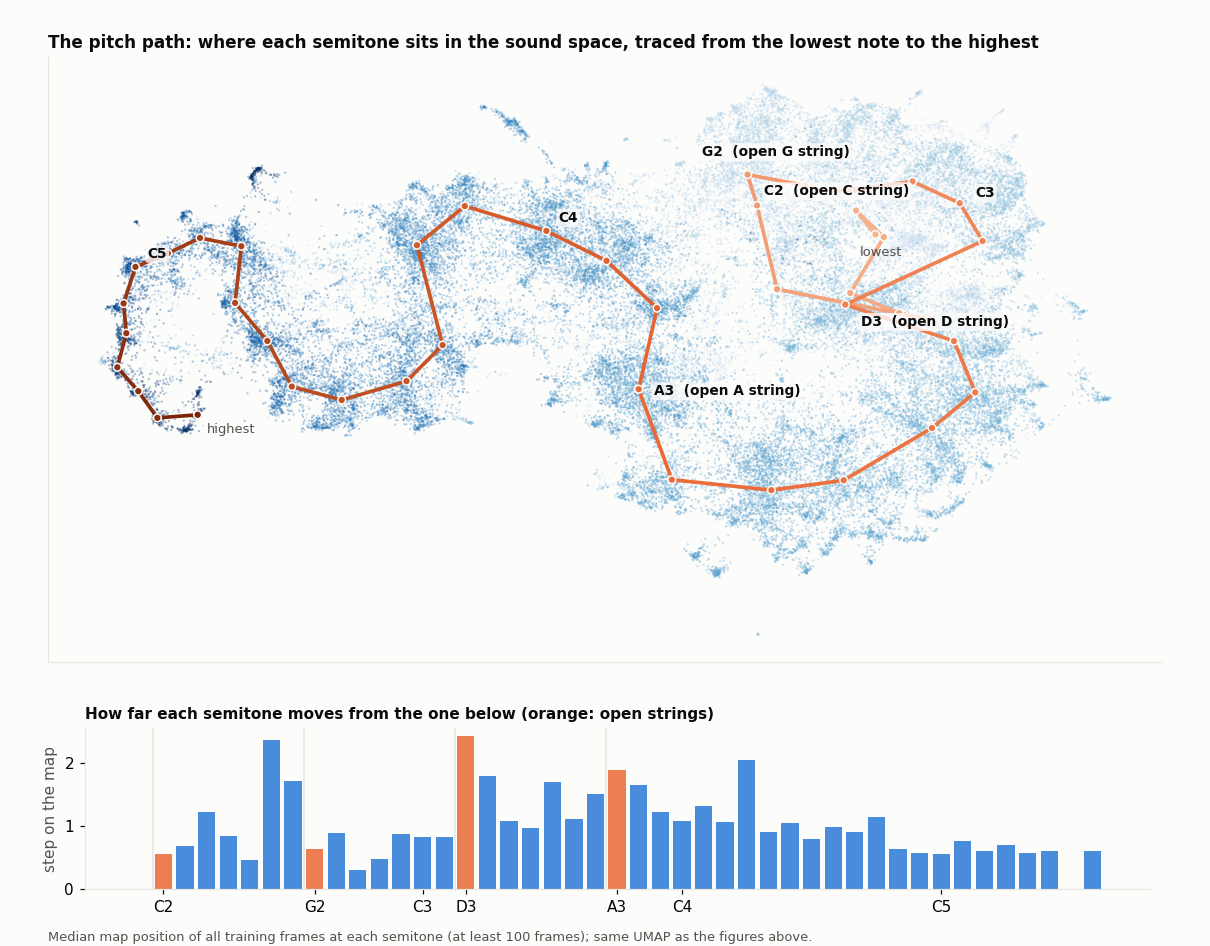
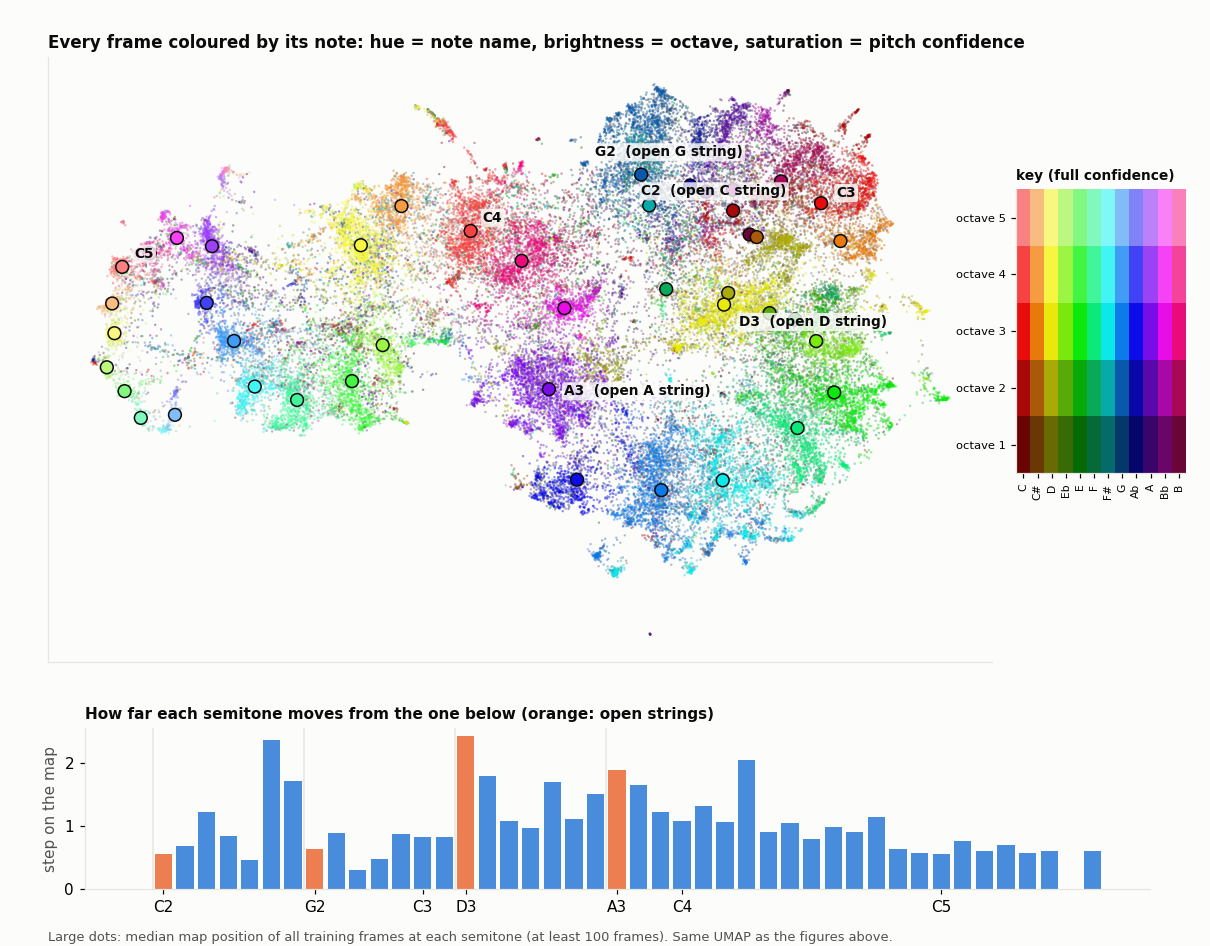
docs: UMAP coloured by note, octave and confidence; black/white semitone map

Changed region(s): [[0.0612, 0.092, 0.9785, 0.6131], [0.0306, 0.0307, 0.8562, 0.0613], [0.0306, 0.981, 0.7339, 1.0]]

diff --git a/colab/cello_gan/make_umap.py b/colab/cello_gan/make_umap.py
@@ -14,12 +14,12 @@ plt.rcParams.update({"figure.facecolor": BG, "axes.facecolor": BG, "axes.edgecol
 def midi_of(c): return np.where(c[:, 1] > 0.5, 69 + 12 * np.log2(np.clip(c[:, 0], 40, 1200) / 440), np.nan)
 
 
-rng = np.random.default_rng(0); Z, P = [], []                              # ~600 voiced frames from each training recording
+rng = np.random.default_rng(0); Z, P, CF = [], [], []                              # ~600 voiced frames from each training recording
 for t in sp["train"]:
     if not os.path.exists(f"{LAT}/{t}.npy"): continue
-    z = np.load(f"{LAT}/{t}.npy").astype(np.float32); m = midi_of(np.load(f"{CTL}/{t}.npy")); n = min(len(z), len(m)); ok = np.flatnonzero(~np.isnan(m[:n]))
-    pick = rng.choice(ok, min(600, len(ok)), replace=False); Z.append(z[pick]); P.append(m[pick])
-Z, P = np.concatenate(Z), np.concatenate(P)
+    z = np.load(f"{LAT}/{t}.npy").astype(np.float32); cc = np.load(f"{CTL}/{t}.npy"); m = midi_of(cc); n = min(len(z), len(m)); ok = np.flatnonzero(~np.isnan(m[:n]))
+    pick = rng.choice(ok, min(600, len(ok)), replace=False); Z.append(z[pick]); P.append(m[pick]); CF.append(cc[pick, 1])
+Z, P, CF = np.concatenate(Z), np.concatenate(P), np.concatenate(CF)          # CF: pitch tracker's voicing confidence (0.5-1 for pitched frames)
 zt = np.load(f"{LAT}/{k}.npy").astype(np.float32)[f0: f0 + int(SEC * 25)]; pt = midi_of(np.load(f"{CTL}/{k}.npy"))[f0: f0 + int(SEC * 25)]
 mu, sd = Z.mean(0), Z.std(0); red = umap.UMAP(n_neighbors=30, min_dist=0.15, random_state=0).fit((Z - mu) / sd)
 xy, xt = red.embedding_, red.transform((zt - mu) / sd)                     # test frames are only placed, never used to fit
@@ -36,25 +36,46 @@ NAMES = ["C", "C#", "D", "Eb", "E", "F", "F#", "G", "Ab", "A", "Bb", "B"]; Pr = 
 semis = [s_ for s_ in range(Pr.min(), Pr.max() + 1) if (Pr == s_).sum() >= 100]
 med = np.array([np.median(xy[Pr == s_], 0) for s_ in semis]); semis = np.array(semis)
 gap = np.r_[0, np.linalg.norm(np.diff(med, axis=0), axis=1)]               # map distance from the previous semitone
-fig = plt.figure(figsize=(11, 8.6)); ax = fig.add_axes([0.04, 0.3, 0.92, 0.64]); ax2 = fig.add_axes([0.07, 0.06, 0.88, 0.17])
-ax.scatter(xy[:, 0], xy[:, 1], c=P, cmap="Blues", vmin=np.percentile(P, 2) - 8, vmax=np.percentile(P, 99), s=2, lw=0, alpha=0.35, rasterized=True)
-from matplotlib.collections import LineCollection; from matplotlib.colors import LinearSegmentedColormap as LSC; pcm = LSC.from_list("p", ["#f6b48f", "#eb6834", "#7a2508"])
-lc = LineCollection(np.stack([med[:-1], med[1:]], 1), cmap=pcm, linewidths=2.4, zorder=3); lc.set_array(semis[:-1].astype(float)); ax.add_collection(lc)
-ax.scatter(med[:, 0], med[:, 1], c=semis, cmap=pcm, s=26, edgecolor=BG, lw=1, zorder=4)
+import colorsys
+def note_col(m, alpha=1.0, conf=None):                                      # hue = pitch class (rainbow), lightness = octave, saturation = pitch confidence
+    m = np.asarray(m, float); pc = np.mod(np.round(m), 12); octv = np.floor(np.round(m) / 12) - 1
+    L = np.clip(0.22 + 0.13 * (octv - 1), 0.18, 0.8); S = np.full(len(m), 0.9) if conf is None else np.clip((np.asarray(conf) - 0.5) / 0.45, 0, 1) * 0.9 + 0.05
+    return np.array([(*colorsys.hls_to_rgb(h / 12, l, s_), alpha) for h, l, s_ in zip(pc, L, S)])
+fig = plt.figure(figsize=(11, 8.6)); ax = fig.add_axes([0.04, 0.3, 0.78, 0.64]); ax2 = fig.add_axes([0.07, 0.06, 0.88, 0.17]); axl = fig.add_axes([0.84, 0.5, 0.14, 0.3])
+o_ = np.argsort(CF); ax.scatter(xy[o_, 0], xy[o_, 1], c=note_col(P[o_], 0.45, CF[o_]), s=2.5, lw=0, rasterized=True)   # confident frames drawn last
+ax.scatter(med[:, 0], med[:, 1], c=note_col(semis), s=70, edgecolor="#0b0b0b", lw=1, zorder=4)
 OPEN = {36: "C string", 43: "G string", 50: "D string", 57: "A string"}
 for s_, (x_, y_) in zip(semis, med):
     if s_ % 12 == 0 or s_ in OPEN:
         off = {36: (-60, 10), 43: (-30, 12), 48: (10, 4), 50: (10, -14), 57: (10, -4)}.get(s_, (8, 6))
         ax.annotate("%s%d" % (NAMES[s_ % 12], s_ // 12 - 1) + ("  (open %s)" % OPEN[s_] if s_ in OPEN else ""), (x_, y_), textcoords="offset points",
                     xytext=off, fontsize=9, weight="bold", color="#0b0b0b", zorder=5, bbox=dict(boxstyle="round,pad=0.15", fc=BG, ec="none", alpha=0.8))
-ax.annotate("lowest", med[0], textcoords="offset points", xytext=(-10, -14), fontsize=8.5, color=INK2); ax.annotate("highest", med[-1], textcoords="offset points", xytext=(6, -12), fontsize=8.5, color=INK2)
-ax.set_xticks([]); ax.set_yticks([]); ax.set_title("The pitch path: where each semitone sits in the sound space, traced from the lowest note to the highest", loc="left")
+ax.set_xticks([]); ax.set_yticks([]); ax.set_title("Every frame coloured by its note: hue = note name, brightness = octave, saturation = pitch confidence", loc="left")
+octs = list(range(int(np.floor(semis.min() / 12)) - 1, int(np.floor(semis.max() / 12))))
+grid = np.array([[note_col([12 * (o + 1) + pc])[0] for pc in range(12)] for o in octs])
+axl.imshow(grid, aspect="auto", origin="lower", interpolation="nearest"); axl.set_xticks(range(12)); axl.set_xticklabels(NAMES, fontsize=7, rotation=90)
+axl.set_yticks(range(len(octs))); axl.set_yticklabels(["octave %d" % o for o in octs], fontsize=7.5); axl.set_title("key (full confidence)", loc="left", fontsize=9)
 ax2.bar(semis, gap, width=0.8, color=[ORANGE if s_ in OPEN else "#2a78d6" for s_ in semis], alpha=0.85)
 for s_ in OPEN: ax2.axvline(s_ - 0.5, color=GRID, lw=1, zorder=0)
 ax2.set_xticks([s_ for s_ in semis if s_ % 12 == 0 or s_ in OPEN]); ax2.set_xticklabels(["%s%d" % (NAMES[s_ % 12], s_ // 12 - 1) for s_ in semis if s_ % 12 == 0 or s_ in OPEN])
 ax2.set_ylabel("step on the map"); ax2.set_title("How far each semitone moves from the one below (orange: open strings)", loc="left", fontsize=10)
-fig.text(0.04, 0.005, "Median map position of all training frames at each semitone (at least 100 frames); same UMAP as the figures above.", color=INK2, fontsize=8.5)
+fig.text(0.04, 0.005, "Large dots: median map position of all training frames at each semitone (at least 100 frames). Same UMAP as the figures above.", color=INK2, fontsize=8.5)
 fig.savefig(f"{OUTD}/umap_pitch_path.png", dpi=110); plt.close(fig)
+# black / white alternating by semitone, grey for frames with no identifiable pitch (placed on the same map, not used to fit it)
+Zu = []
+for t in sp["train"]:
+    if not os.path.exists(f"{LAT}/{t}.npy"): continue
+    z = np.load(f"{LAT}/{t}.npy").astype(np.float32); m = midi_of(np.load(f"{CTL}/{t}.npy")); n = min(len(z), len(m)); un = np.flatnonzero(np.isnan(m[:n]))
+    if len(un): Zu.append(z[rng.choice(un, min(150, len(un)), replace=False)])
+xu = red.transform((np.concatenate(Zu) - mu) / sd)
+fig, ax = plt.subplots(figsize=(11, 7.6)); MID = "#5b7db1"; fig.patch.set_facecolor(BG); ax.set_facecolor(MID)
+odd = (Pr % 2).astype(bool); ax.scatter(xy[~odd, 0], xy[~odd, 1], color="#0b0b0b", s=2.5, lw=0, alpha=0.75, rasterized=True)
+ax.scatter(xy[odd, 0], xy[odd, 1], color="#ffffff", s=2.5, lw=0, alpha=0.75, rasterized=True)
+ax.scatter(xu[:, 0], xu[:, 1], color="#b8b8b8", s=3, lw=0, alpha=0.9, rasterized=True)   # unpitched frames on top so they stay visible
+ax.set_xticks([]); ax.set_yticks([]); [sp_.set_visible(False) for sp_ in ax.spines.values()]
+ax.set_title("Neighbouring semitones in alternating black and white; grey = no identifiable pitch", loc="left")
+fig.text(0.02, 0.01, "Same UMAP as above. %d pitched frames (C, D, E, F#, G#, A# black; C#, D#, F, G, A, B white) and %d unpitched frames placed onto the map." % (len(xy), len(xu)), color=INK2, fontsize=8.5)
+fig.tight_layout(); fig.savefig(f"{OUTD}/umap_semitones_bw.png", dpi=110); plt.close(fig); print("wrote umap_semitones_bw.png")
 for s_, g_ in zip(semis, gap): print("%s%d %4d frames step %.2f" % (NAMES[s_ % 12], s_ // 12 - 1, (Pr == s_).sum(), g_))
 
 # static picture: the whole passage, coloured from early (light) to late (dark orange)

diff --git a/README.md b/README.md
@@ -236,19 +236,26 @@ different neighbourhood: pitch and register organize the space.
 
 </details>
 
-**The pitch path.** For every semitone I took the median map position of all its training frames and joined them in pitch order.
+**Where each note lives.** The same map with every frame coloured by its note: hue is the note name, brightness the octave, and
+saturation the pitch tracker's confidence. Large dots mark the median position of each semitone.
 
-![The pitch path through the sound space](docs/assets/umap_pitch_path.png)
+![Every frame coloured by its note](docs/assets/umap_pitch_path.png)
 
-- **The space snakes by register.** From D3 upward the path sweeps steadily across the whole map, with the highest notes at the
-  far end, so register is the main axis of the sound space.
-- **The bottom octave is a knot.** Below D3, neighbouring semitones jump around inside one region. Down there, what changes the
-  sound most is tone colour and bowing, not the note.
-- **Big steps line up with the instrument.** Two of the largest steps land on open strings, D3 and A3. An open string rings
-  without a finger stopping it, so it sounds noticeably different from the stopped notes around it. The codec learned that from
-  audio alone.
+- **Each note forms its own islands.** The latent was never told note names, but frames of the same note cluster together.
+- **The space snakes by register.** Following the medians from D3 upward, the notes sweep across the whole map toward the highest
+  notes at the far left. Below D3 they knot together in one region: down there, tone colour and bowing change the sound more than
+  the note does.
+- **Big steps line up with the instrument.** The bar chart shows how far each semitone's median sits from the one below. Two of the
+  largest steps land on open strings, D3 and A3. An open string rings without a finger stopping it, so it sounds different from the
+  stopped notes around it.
 
-The lowest point, B1, is below the cello's range; it comes from pitch-tracker errors and flat low notes in the training audio.
+![Neighbouring semitones in alternating black and white](docs/assets/umap_semitones_bw.png)
+
+*The same map with neighbouring semitones in alternating black and white. The stripes show the snake directly: every step up in
+pitch moves to the next band. Grey frames have no identifiable pitch (bow noise, attacks, silence between notes); they gather in a
+few distinct regions of their own.*
+
+The lowest median, B1, is below the cello's range; it comes from pitch-tracker errors and flat low notes in the training audio.
 
 ### 3. From curves to latent, and from notes to curves
 
